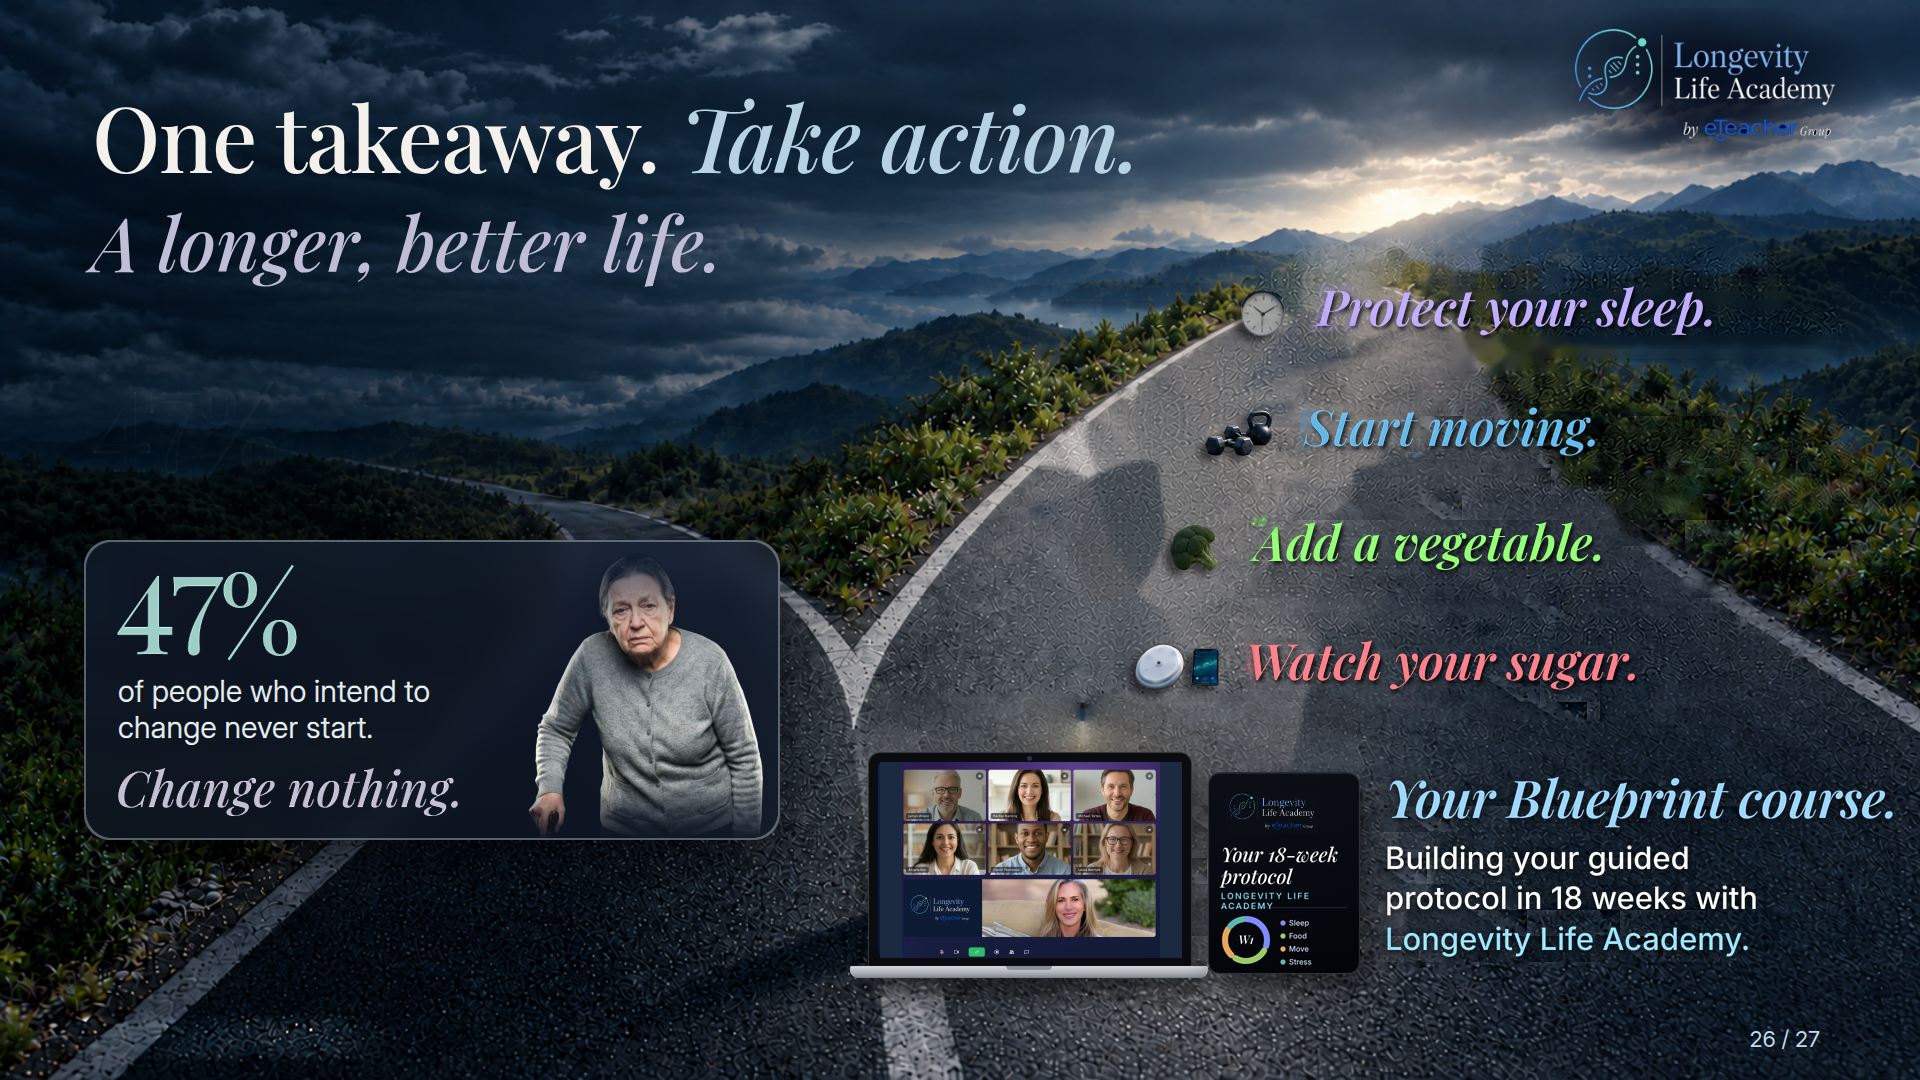
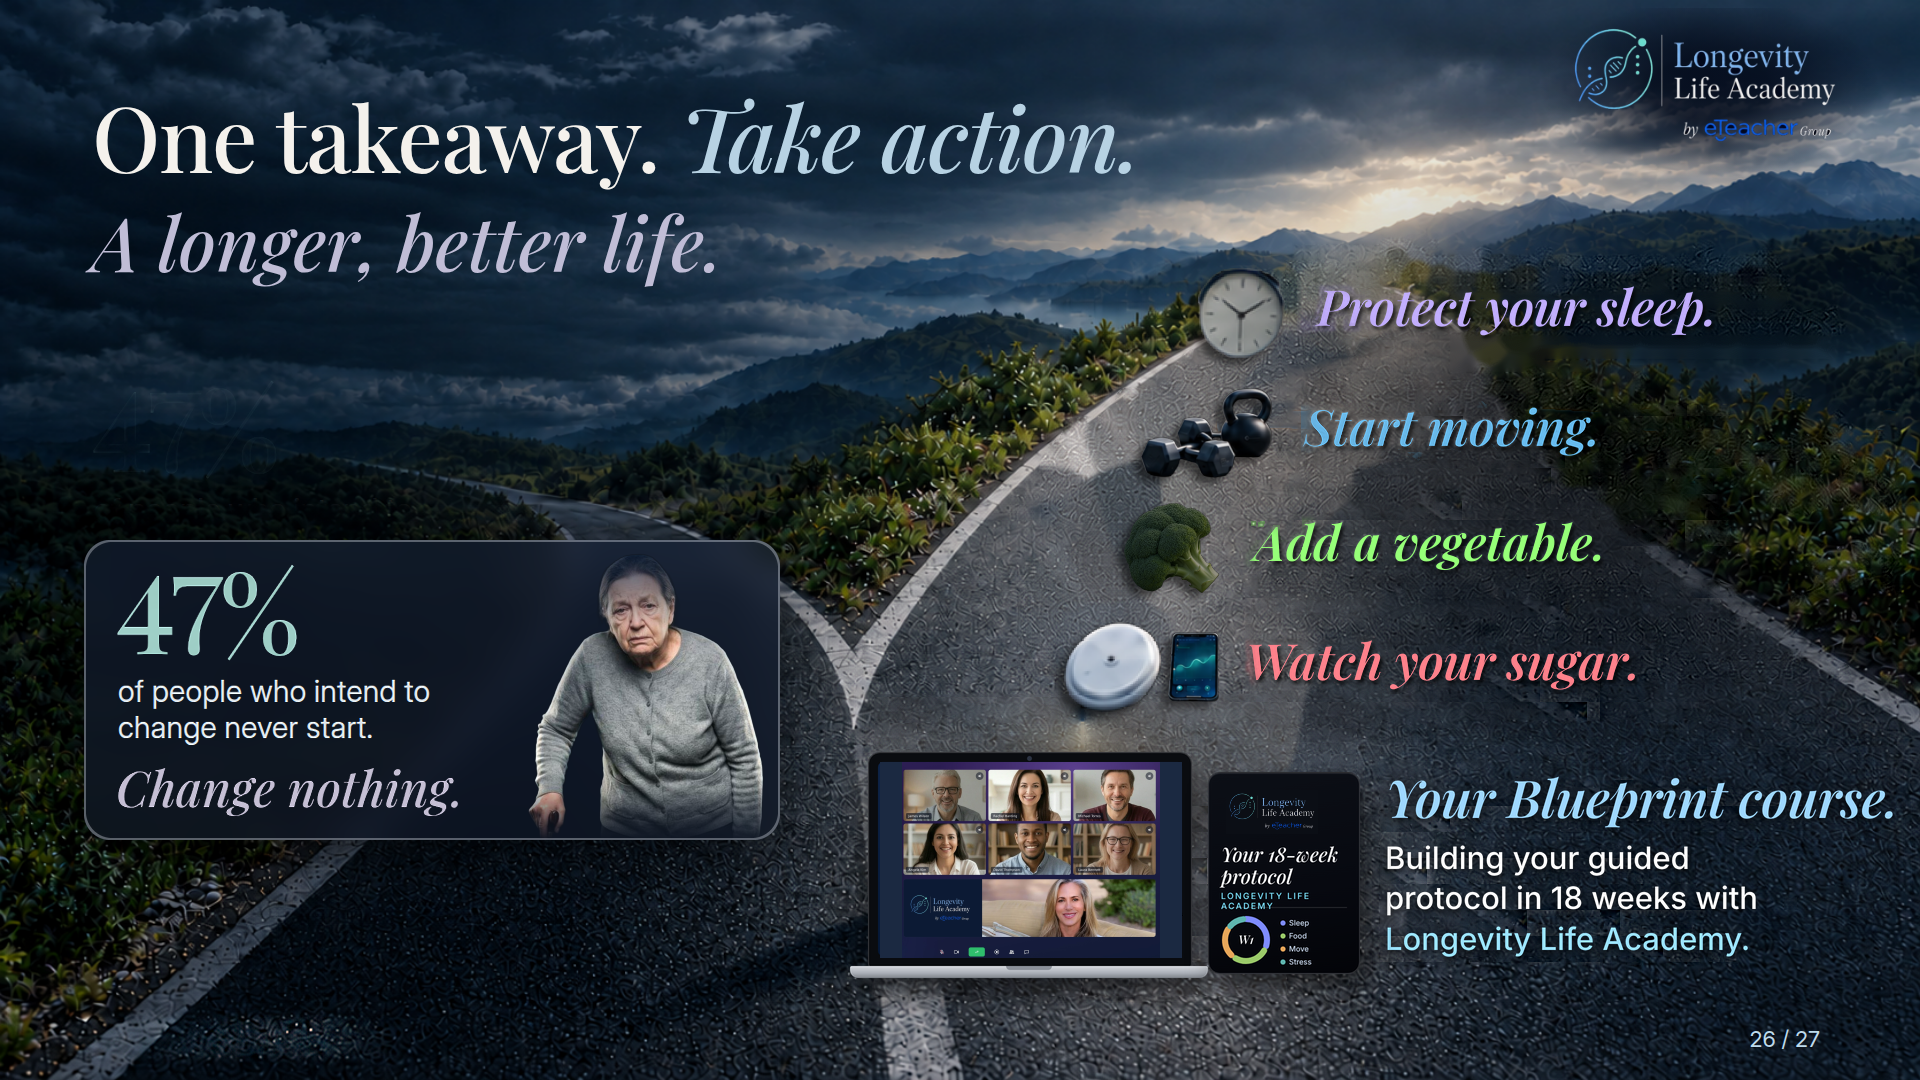
n25 fork: objects 90px, residue cleaned, light ray darkened behind headlines; z15/y28

Changed region(s): [[0.5625, 0.1528, 0.9062, 0.55], [0.5312, 0.5806, 0.6562, 0.6722], [0.8125, 0.3361, 0.8438, 0.3667]]

diff --git a/slide-canvas/v46/corrections.js b/slide-canvas/v46/corrections.js
@@ -78,7 +78,7 @@ const sxRisks=newSlot('sx-risks','assets/n22-risks.jpg?v=v46y22','The four risks
 const sxBz=newSlot('sx-bz','assets/n23-bluezones.jpg?v=v46y22','The Blue Zones.','Added from the Round 13 page (slide 07, The Blue Zones). Placed before the menopause slide.','x2');
 const sxBr=newSlot('sx-brulee','assets/n24-brulee.jpg?v=v46y22','Crème brûlée and wrinkles.','Added from the Round 13 page (slide 13, Crème brûlée and wrinkles). Placed after the sugar slide, before Same age.','x3');
 const sxReligion=newSlot('sx-religion','assets/n26-religion.jpg?v=v46y22','Take the religion out of your diet.','New statement slide: only the sentence, large. Carries the religion part of the old plate-slide script; the pillars follow, then the plate.','x5');
-const sxFork=newSlot('sx-fork','assets/n25-fork.png?v=v46z14','One takeaway. Take action. (closing)','Closing slide: exactly the Julie deck slide 22 at commit f220cbd, unchanged (image file additional-take-action-20261026.png). It ends the deck.','x4');
+const sxFork=newSlot('sx-fork','assets/n25-fork.png?v=v46z15','One takeaway. Take action. (closing)','Closing slide: exactly the Julie deck slide 22 at commit f220cbd, unchanged (image file additional-take-action-20261026.png). It ends the deck.','x4');
 const sxSugar=newSlot('sx-sugar','assets/n28-sugar-limit.jpg?v=v46y22','Six teaspoons: the daily limit for added sugar.','New slide after the crème brûlée. Script it covers (quoted): “Here’s where the data points to a hard ceiling: keep your added sugar to under twenty-five grams a day. That’s roughly six teaspoons.” Then: “birthday cake is too precious of a tradition to scrap for watermelon cake. Sorry not gonna happen. But in it’s rightful place - once in a blue moon - it’s ok.” Then the CGM: “every student in the Longevity Life Academy will wear a CGM for two weeks.” Time 0:30, taken from the brûlée slide (now 0:30).','x6');
 const sxMwB=newSlot('sx-mw-julie','assets/n27-movement-week-julie.jpg?v=v46y22','Julie Gibson Clark’s Movement Week.','Movement week (option 2), Claude B, Protocol, slide 13. Marked V2. Julie to update. The full protocol follows after the stress slide.','x7');
 // The user's original slide references define the order, not inferred numbering.

diff --git a/slide-canvas/v46/index.html b/slide-canvas/v46/index.html
@@ -65,7 +65,7 @@ textarea:focus{outline:none;border-color:#006EFF;box-shadow:0 0 0 3px rgba(0,110
 <button id="send" class="btn p" onclick="sendAll()">Send my comments</button>
 <div id="lb" onclick="this.classList.remove('on')"><img id="lbimg" src="" alt=""><div class="x">Close</div></div>
 <div id="play"><img id="pimg" src="" alt=""><div class="x" onclick="stopPlay()">Close, Esc</div><div class="c" id="pc"></div></div>
-<script src="corrections.js?v=20261027-v46y27"></script>
+<script src="corrections.js?v=20261027-v46y28"></script>
 <script>
 const P=allSlots.map(s=>s.querySelector('img.main').getAttribute('src'));let k=0;
 const T=[...document.querySelectorAll('textarea')];

diff --git a/slide-canvas/fork-lab/index.html b/slide-canvas/fork-lab/index.html
@@ -1,4 +1,4 @@
 <!doctype html><html><head><meta charset="utf-8"><title>Fork lab – slide 26</title>
 <style>body{margin:0;background:#0b1220;color:#dfe7f3;font:15px/1.4 Inter,system-ui,sans-serif}h2{font-weight:500;margin:28px 24px 10px}img{display:block;width:calc(100% - 48px);max-width:1920px;margin:0 24px 24px;border-radius:6px}</style></head>
 <body><h2>Original</h2><img src="original-n25-fork.png?v=1" alt="Original">
-<h2>New</h2><img src="new-n25-fork.png?v=16" alt="New"></body></html>
+<h2>New</h2><img src="new-n25-fork.png?v=17" alt="New"></body></html>

diff --git a/slide-canvas/fork-lab/src/b8.py b/slide-canvas/fork-lab/src/b8.py
@@ -22,11 +22,13 @@ for y0,y1,x0 in [(265,360,1290),(385,480,1280),(500,595,1225),(620,712,1225)]:
 print(rows)
 GAP=32
 C=np.load('C.npy')
-for x0,y0,x1,y1 in [(1190,400,1300,432),(1240,505,1310,545)]:
+R[505:521,1238:1275]=C[505:521,1238:1275]
+R[418:432,1262:1300]=C[418:432,1262:1300]
+for x0,y0,x1,y1 in [(1150,398,1301,460),(1150,500,1262,520),(1236,505,1302,540),(1230,280,1312,345)]:
     sub=R[y0:y1,x0:x1];sat=sub.max(2)-sub.min(2);t=((sat>60)&(sub.max(2)>140)).astype(np.uint8)
     t=cv2.dilate(t,np.ones((5,5),np.uint8)).astype(np.float32)[...,None]
     R[y0:y1,x0:x1]=sub*t+C[y0:y1,x0:x1]*(1-t)
-TH=46
+TH=90
 pt=R[362:392,1185:1298].copy();al=np.ones((30,113),np.float32);al=cv2.GaussianBlur(np.pad(al[4:-4,4:-4],4),(0,0),2)[...,None]
 sub=R[398:428,1185:1298];sat=sub.max(2)-sub.min(2);keep=cv2.dilate(((sat>60)&(sub.max(2)>140)).astype(np.uint8),np.ones((5,5),np.uint8)).astype(np.float32)[...,None]
 a2=al*(1-keep);R[398:428,1185:1298]=sub*(1-a2)+pt*a2
@@ -46,6 +48,19 @@ cg=np.array(Image.open('c_cgm.png')).astype(np.float32);sen=cg[:,:98];ph=cg[:,98
 for nm,c,(cy,xl) in [('clock',clock,rows[0]),('dumb',dumb,rows[1]),('broc',br,rows[2])]:
     print(nm,place(toh(c,TH),cy,xl-GAP))
 cy,xl=rows[3]
-p=place(toh(ph,38),cy,xl-GAP);print('phone',p)
+p=place(toh(ph,70),cy,xl-GAP);print('phone',p)
 print('sensor',place(toh(sen,TH),cy,p[0]-8))
+hfS=cv2.imread('base.png').astype(np.float32)[560:700,1300:1460];hfS=hfS-cv2.GaussianBlur(hfS,(0,0),3)
+x0,y0,x1,y1=1286,262,1312,362
+sub=R[y0:y1,x0:x1];sat=sub.max(2)-sub.min(2);t=((sat>60)&(sub.max(2)>140))
+mm=np.zeros(R.shape[:2],np.uint8);mm[y0:y1,x0:x1]=(~t)*255
+inp=cv2.inpaint(np.clip(R,0,255).astype(np.uint8),mm,6,cv2.INPAINT_TELEA).astype(np.float32)
+inp[y0:y1,x0:x1]+=hfS[:y1-y0,:x1-x0]
+a=cv2.GaussianBlur(mm.astype(np.float32)/255,(0,0),1.2)[...,None];R=R*(1-a)+inp*a
+yy,xx=np.mgrid[0:H,0:W].astype(np.float32)
+g=np.exp(-(((xx-1560)/330)**2+((yy-470)/260)**2));g[:,:1260]*=np.clip((xx[:,:1260]-1180)/80,0,1);g[740:]=0
+g=cv2.GaussianBlur(g,(0,0),20);g[742:]=0
+sat=R.max(2)-R.min(2);tx=cv2.dilate((((sat>60)&(R.max(2)>140))).astype(np.uint8),np.ones((3,3),np.uint8)).astype(np.float32)
+tx=cv2.GaussianBlur(tx,(0,0),0.8)
+dk=1-0.42*g*(1-tx);R=R*dk[...,None]
 cv2.imwrite('z18.png',np.clip(R,0,255).astype(np.uint8)[250:720,1000:1500]);cv2.imwrite('new.png',np.clip(np.round(R),0,255).astype(np.uint8))
